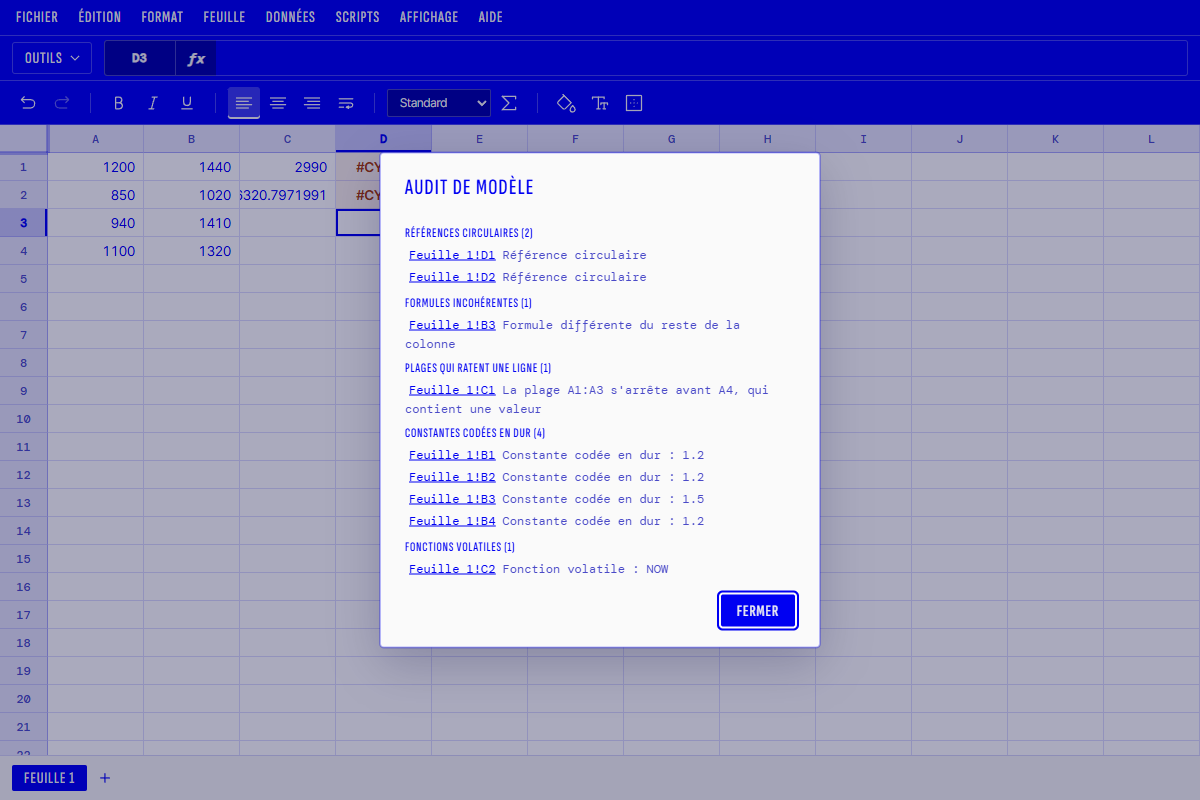
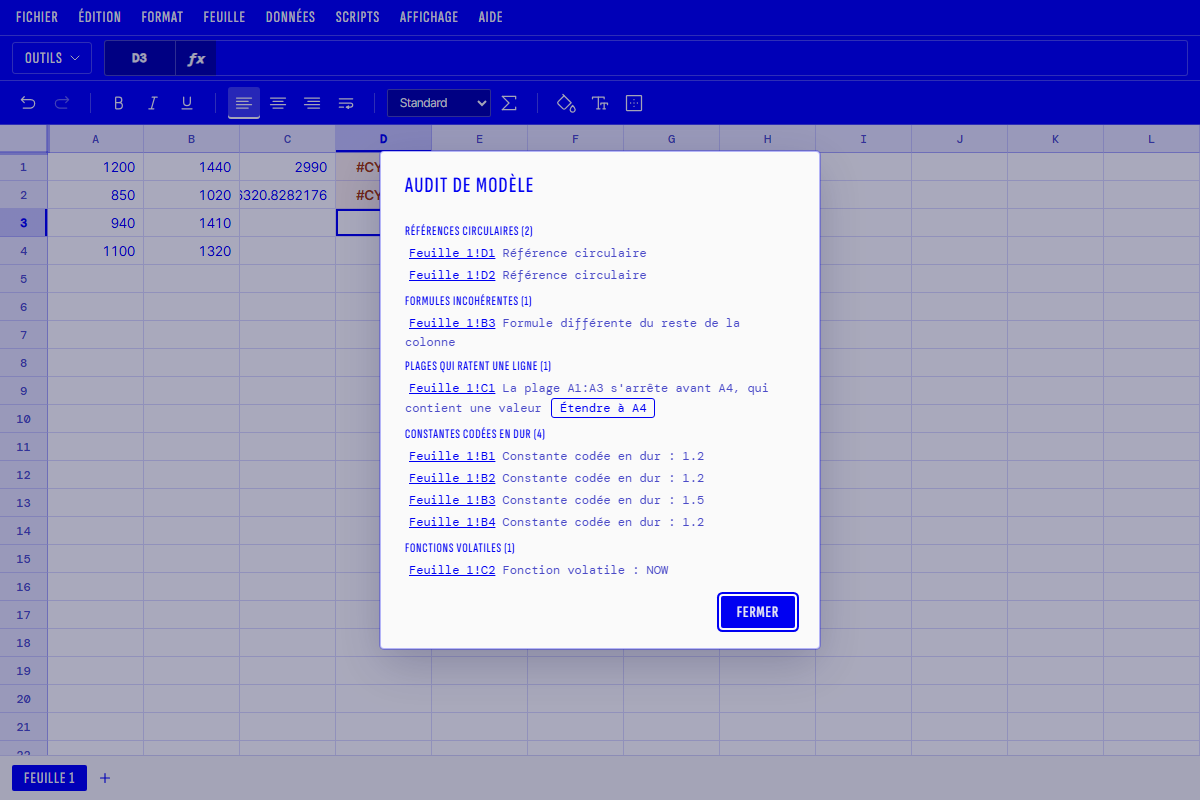
Boucle: implementation

diff --git a/src/engine/model/audit.ts b/src/engine/model/audit.ts
@@ -5,13 +5,15 @@
  */
 import { parseKey } from "../address";
 import type { Node } from "../types";
-import { indexFormulas, refHits, type FCell } from "./formulaIndex";
+import { cellsInRef, indexFormulas, refHits, type FCell } from "./formulaIndex";
 import type { DktDoc } from "../../io/types";
 
 /** Famille d'un constat. */
 export type FindingKind = "constant" | "inconsistent" | "range" | "volatile" | "cycle";
 /** Un constat sur une cellule. */
-export interface Finding { kind: FindingKind; sheetId: string; sheet: string; key: string; message: string }
+export interface Finding { kind: FindingKind; sheetId: string; sheet: string; key: string; message: string; fix?: Fix }
+/** Correction en un clic : cellules à réécrire (`raw` brut) avec libellé du bouton. */
+export interface Fix { label: string; edits: { sheetId: string; key: string; raw: string }[] }
 
 const OK_NUMS = new Set([0, 1, 2, 100]);
 /** Fonctions dont les arguments numériques sont des paramètres (décimales, positions), pas des hypothèses. */
@@ -96,15 +98,35 @@ function cycles(all: FCell[]): FCell[] {
   return all.filter((f) => reach(f).has(f));
 }
 
-/** Plage de `f` qui s'arrête juste avant une cellule remplie (nouvelle ligne ratée), ou null. */
-function missedRow(doc: DktDoc, f: FCell): string | null {
+/** Plage de `f` qui s'arrête juste avant une cellule remplie (nouvelle ligne ratée), ou null; avec correction. */
+function missedRow(doc: DktDoc, f: FCell): { message: string; fix: Fix } | null {
   for (const r of f.refs) {
     const s = doc.sheets.find((x) => x.id === r.sheetId), end = parseKey(r.b);
     if (!s || r.a === r.b || !end || !/^[A-Za-z]+\d+$/.test(r.b)) continue;
     const below = `${r.b.replace(/\d+$/, "")}${end.row + 1}`.toUpperCase();
-    if ((s.cells[below]?.raw ?? "") !== "" && !(s.id === f.sheetId && below === f.key)) return `La plage ${r.a}:${r.b} s'arrête avant ${below}, qui contient une valeur`;
+    if ((s.cells[below]?.raw ?? "") !== "" && !(s.id === f.sheetId && below === f.key)) {
+      const raw = f.raw.replace(`${r.a}:${r.b}`, `${r.a}:${below}`);
+      return { message: `La plage ${r.a}:${r.b} s'arrête avant ${below}, qui contient une valeur`,
+        fix: { label: `Étendre à ${below}`, edits: [{ sheetId: f.sheetId, key: f.key, raw }] } };
+    }
   }
   return null;
+}
+
+/** Nombres stockés en texte (`'12`) dans les plages de `f` : ignorés par SUM/AVERAGE; correction = les convertir. */
+function textNumbers(doc: DktDoc, f: FCell): { message: string; fix: Fix } | null {
+  const edits: Fix["edits"] = [];
+  for (const r of f.refs) {
+    const s = doc.sheets.find((x) => x.id === r.sheetId);
+    if (!s || r.a === r.b) continue;
+    for (const k of cellsInRef(s, r.a, r.b)) {
+      const m = /^'\s*(-?\d+(?:[.,]\d+)?)\s*$/.exec(s.cells[k].raw);
+      if (m) edits.push({ sheetId: s.id, key: k, raw: m[1].replace(",", ".") });
+    }
+  }
+  if (!edits.length) return null;
+  return { message: `Nombres stockés en texte, ignorés par la somme : ${edits.map((e) => e.key).join(", ")}`,
+    fix: { label: "Convertir en nombres", edits } };
 }
 
 /** Audite le classeur; constats triés par type puis cellule. */
@@ -117,8 +139,7 @@ export function auditModel(doc: DktDoc): Finding[] {
     if (k.length) out.push(find(f, "constant", `Constante codée en dur : ${k.join(", ")}`));
     const v = calls(f.ast).filter((n) => VOLATILE.has(n));
     if (v.length) out.push(find(f, "volatile", `Fonction volatile : ${[...new Set(v)].join(", ")}`));
-    const m = missedRow(doc, f);
-    if (m) out.push(find(f, "range", m));
+    for (const m of [missedRow(doc, f), textNumbers(doc, f)]) if (m) out.push({ ...find(f, "range", m.message), fix: m.fix });
   }
   out.push(...inconsistent(doc, all));
   out.push(...cycles(all).map((f) => find(f, "cycle", "Référence circulaire")));

diff --git a/src/ui/dialogs/audit.ts b/src/ui/dialogs/audit.ts
@@ -14,16 +14,18 @@ const TITLE: Record<FindingKind, string> = {
 };
 
 /** Remplit `el` avec les constats groupés par type; `go` reçoit le constat cliqué. */
-export function renderAudit(el: HTMLElement, findings: Finding[], go: (f: Finding) => void): void {
+export function renderAudit(el: HTMLElement, findings: Finding[], go: (f: Finding) => void, fix?: (f: Finding) => void): void {
   if (!findings.length) { el.innerHTML = '<p class="dk-data__msg">Aucun problème détecté.</p>'; return; }
   const kinds = [...new Set(findings.map((f) => f.kind))];
   el.innerHTML = kinds.map((k) => {
     const items = findings.map((f, i) => ({ f, i })).filter((x) => x.f.kind === k).map(({ f, i }) =>
-      `<li><button type="button" class="dk-audit__link" data-finding="${i}" data-kind="${k}">${esc(f.sheet)}!${f.key}</button> <span class="dk-audit__msg">${esc(f.message)}</span></li>`);
+      `<li><button type="button" class="dk-audit__link" data-finding="${i}" data-kind="${k}">${esc(f.sheet)}!${f.key}</button> <span class="dk-audit__msg">${esc(f.message)}</span>${f.fix ? ` <button type="button" class="dk-audit__fix" data-fix="${i}">${esc(f.fix.label)}</button>` : ""}</li>`);
     return `<h3 class="dk-diff__sheet">${TITLE[k]} (${items.length})</h3><ul class="dk-dep__list">${items.join("")}</ul>`;
   }).join("");
   el.querySelectorAll<HTMLElement>("[data-finding]").forEach((b) =>
     b.addEventListener("click", () => go(findings[Number(b.dataset.finding)])));
+  el.querySelectorAll<HTMLElement>("[data-fix]").forEach((b) =>
+    b.addEventListener("click", () => fix?.(findings[Number(b.dataset.fix)])));
 }
 
 /** Ouvre le panneau d'audit du classeur (une seule instance). */
@@ -32,9 +34,19 @@ export function openAudit(app: App): void {
   body.className = "dk-dialog__body dk-data";
   body.innerHTML = '<div class="dk-audit"></div>';
   const box = openDialog("audit", "Audit de modèle", body);
-  renderAudit(body.querySelector<HTMLElement>(".dk-audit")!, auditModel(app.toDoc()), (f) => {
+  const el = body.querySelector<HTMLElement>(".dk-audit")!;
+  const go = (f: Finding): void => {
     app.switchSheet(f.sheetId);
     app.select(f.key);
     box.querySelector<HTMLElement>('[data-action="close"]')!.click();
-  });
+  };
+  /** Applique la correction (un pas d'annulation par feuille) puis relance l'audit. */
+  const fix = (f: Finding): void => {
+    const cur = app.toDoc().sheets.find((s) => s.id === f.sheetId);
+    if (!f.fix || !cur) return;
+    app.switchSheet(f.sheetId);
+    app.editMany(Object.fromEntries(f.fix.edits.filter((e) => e.sheetId === f.sheetId).map((e) => [e.key, e.raw])));
+    renderAudit(el, auditModel(app.toDoc()), go, fix);
+  };
+  renderAudit(el, auditModel(app.toDoc()), go, fix);
 }

diff --git a/src/engine/model/audit.test.ts b/src/engine/model/audit.test.ts
@@ -24,6 +24,17 @@ describe("auditModel", () => {
     const d = doc({ A1: "1", A2: "2", A3: "3", A4: "4", B1: "=SUM(A1:A3)", B9: "=SUM(A1:A4)" });
     expect(kinds(d, "range")).toEqual(["B1"]);
   });
+  it("range finding carries a one-click fix extending the range", () => {
+    const f = auditModel(doc({ A1: "1", A2: "2", A3: "3", A4: "4", B1: "=SUM(A1:A3)" })).find((x) => x.kind === "range")!;
+    expect(f.fix).toEqual({ label: "Étendre à A4", edits: [{ sheetId: "s1", key: "B1", raw: "=SUM(A1:A4)" }] });
+  });
+  it("flags numbers stored as text inside a range, fix converts them", () => {
+    const d = doc({ A1: "1", A2: "'20", A3: "3", B1: "=SUM(A1:A3)" });
+    const f = auditModel(d).filter((x) => x.kind === "range");
+    expect(f.map((x) => x.key)).toEqual(["B1"]);
+    expect(f[0].message).toContain("A2");
+    expect(f[0].fix!.edits).toEqual([{ sheetId: "s1", key: "A2", raw: "20" }]);
+  });
   it("flags volatile functions", () => {
     const d = doc({ A1: "=NOW()", A2: "=OFFSET(B1,1,0)", A3: "=SUM(B1:B2)" });
     expect(kinds(d, "volatile")).toEqual(["A1", "A2"]);

diff --git a/e2e/rapport-plages-tronquees.spec.ts b/e2e/rapport-plages-tronquees.spec.ts
@@ -16,6 +16,10 @@ for (const [theme, label] of [["light", "clair"], ["dark", "sombre"]] as const) 
     await page.keyboard.type("Audit de modèle");
     await page.keyboard.press("Enter");
     await expect(page.locator(".dk-audit__link", { hasText: "!C1" }).first()).toBeVisible();
+    await expect(page.locator(".dk-audit__fix", { hasText: "Étendre à A4" })).toBeVisible();
     await page.screenshot({ path: `${DIR}/alerte-${label}.png` });
+    await page.locator(".dk-audit__fix", { hasText: "Étendre à A4" }).click();
+    await expect(page.locator(".dk-audit__link", { hasText: "!C1" })).toHaveCount(0);
+    await page.screenshot({ path: `${DIR}/corrige-${label}.png` });
   });
 }

diff --git a/src/ui/dialogs/dataDialogs.css b/src/ui/dialogs/dataDialogs.css
@@ -23,4 +23,5 @@
 .dk-data label { display: block; margin-bottom: var(--s-2); }
 .dk-audit__link { background: none; border: 0; padding: 2px 4px; cursor: pointer; font: 12px var(--font-mono); color: var(--c-accent); text-decoration: underline; }
 .dk-audit__msg { font: 12px var(--font-mono); color: var(--c-text-2); }
+.dk-audit__fix { margin-left: 6px; padding: 1px 8px; cursor: pointer; font: 12px var(--font-mono); color: var(--c-accent); background: none; border: 1px solid var(--c-accent); border-radius: 3px; }
 .dk-query__steps { margin: 0 0 var(--s-2); padding-left: 20px; font: 12px var(--font-mono); min-height: 3em; }

diff --git a/TODO.md b/TODO.md
@@ -226,7 +226,8 @@ Classement par gravité (P0 = pire)
 - [ ] Secteur recherche v1 (`prototypes/oauth-sdk/`): lancer la boucle live (`CLAUDE_CODE_OAUTH_TOKEN`, plafond 20 USD) -> `docs/recherche/fonctionnalites.md`, puis ajouter les tâches issues des 4 axes
 - [x] Secteur recherche v1: run live (2,20 $ / 20 $), synthèse 4 axes dans `docs/recherche/fonctionnalites.md`
 - [x] Carte `carte-des-dependances-interactive`: panneau « Qui utilise cette cellule ? » (palette `data.depmap`, `engine/model/depmap.ts`, `ui/dialogs/depmap.ts`, rapport `docs/rapports/`)
-- [x] Carte `audit-de-modele-integre`: panneau « Audit de modèle » (palette `data.audit`, `engine/model/audit.ts`, `ui/dialogs/audit.ts`; constantes, formules incohérentes, plages tronquées, volatiles, cycles; clic = va à la cellule), e2e `e2e/feat-audit.spec.ts` (partiel: correction 1-clic + nombres-en-texte)
+- [x] Carte `audit-de-modele-integre`: panneau « Audit de modèle » (palette `data.audit`, `engine/model/audit.ts`, `ui/dialogs/audit.ts`; constantes, formules incohérentes, plages tronquées, volatiles, cycles; clic = va à la cellule), e2e `e2e/feat-audit.spec.ts`
+- [x] Carte `plages-tronquees-detectees`: correction en un clic (`Finding.fix`, bouton `.dk-audit__fix`) + détection nombres stockés en texte, `docs/rapports/plages-tronquees-detectees.md`
 - [ ] Recherche, axe 1 (idées nouvelles): graphe de dépendances inter-feuilles en un clic, historique par cellule, vue « fiche » d'une ligne
 - [ ] Recherche, axe 2 (absent de dk-table): validation de données, tableaux nommés (Excel Tables), tableau croisé dynamique
 - [x] Carte `atteindre-formules-constantes`: palette + menu Affichage « Surligner formules / constantes » (`engine/audit-kinds.ts`, `ui/grid/kinds.ts`, classes `dkg-kf`/`dkg-kc`; `docs/formules-constantes.md`), e2e `e2e/feat-formules-constantes.spec.ts`

diff --git a/docs/rapports/plages-tronquees-detectees.md b/docs/rapports/plages-tronquees-detectees.md
@@ -1,21 +1,20 @@
 # Rapport : Plages tronquees detectees
-Statut : bloque
+Statut : termine
 Visible : oui
 
 ## Fait
 - Detection `range` de l'audit : ligne non vide juste sous une plage (ex. `=SUM(A1:A3)` avec une valeur en A4).
-- Code : `src/engine/model/audit.ts` (`missedRow`, `auditModel`), tests `src/engine/model/audit.test.ts`.
-- UI : `src/ui/dialogs/audit.ts` (liste d'alertes, clic = aller a la cellule).
-- E2E : `e2e/feat-audit.spec.ts`, `e2e/rapport-plages-tronquees.spec.ts` (captures).
+- Detection nombres stockes en texte (`'20`) dans une plage (ignores par SUM/AVERAGE).
+- Correction en un clic : `Finding.fix` (`label`, `edits`), bouton dans le panneau d'audit (etendre la plage ou convertir en nombres), audit relance apres correction.
+- Code : `src/engine/model/audit.ts` (`missedRow`, `textNumbers`, `Fix`), `src/ui/dialogs/audit.ts` (bouton `.dk-audit__fix`), tests `src/engine/model/audit.test.ts`.
+- E2E : `e2e/feat-audit.spec.ts`, `e2e/rapport-plages-tronquees.spec.ts` (alerte puis correction, clair + sombre).
 
 ## Non fait
-- Correction en un clic
-- Detection nombres stockes en texte (SUM ignore le texte)
 
 ## Preuves
-- Tests : ok (2240 tests)
-- Captures : docs/screenshots/plages-tronquees-detectees/alerte-clair.png, docs/screenshots/plages-tronquees-detectees/alerte-sombre.png
+- Tests : ok (2248 tests)
+- Captures : docs/screenshots/plages-tronquees-detectees/alerte-clair.png, alerte-sombre.png, corrige-clair.png, corrige-sombre.png
 
 ## Decisions
-- Trancheur: rapport seul, pas de code; statut bloque car manques ci-dessus.
-- TODO.md:229 annote "(partiel: correction 1-clic + nombres-en-texte)".
+- Une seule extension d'une ligne par correction; l'audit relance propose la suivante si besoin.
+- Nombres-en-texte = prefixe `'` + nombre; correction = reecrire la valeur sans `'`.
